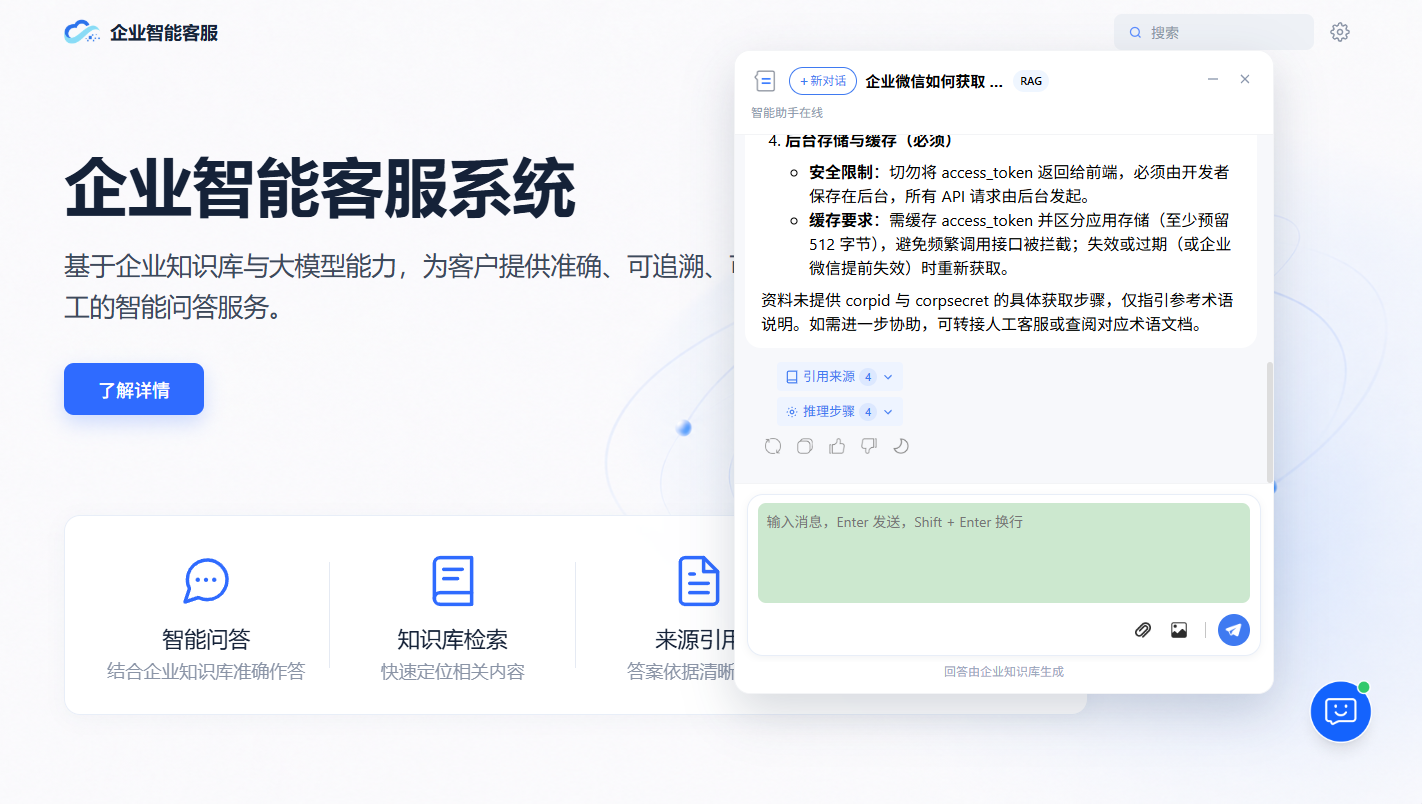
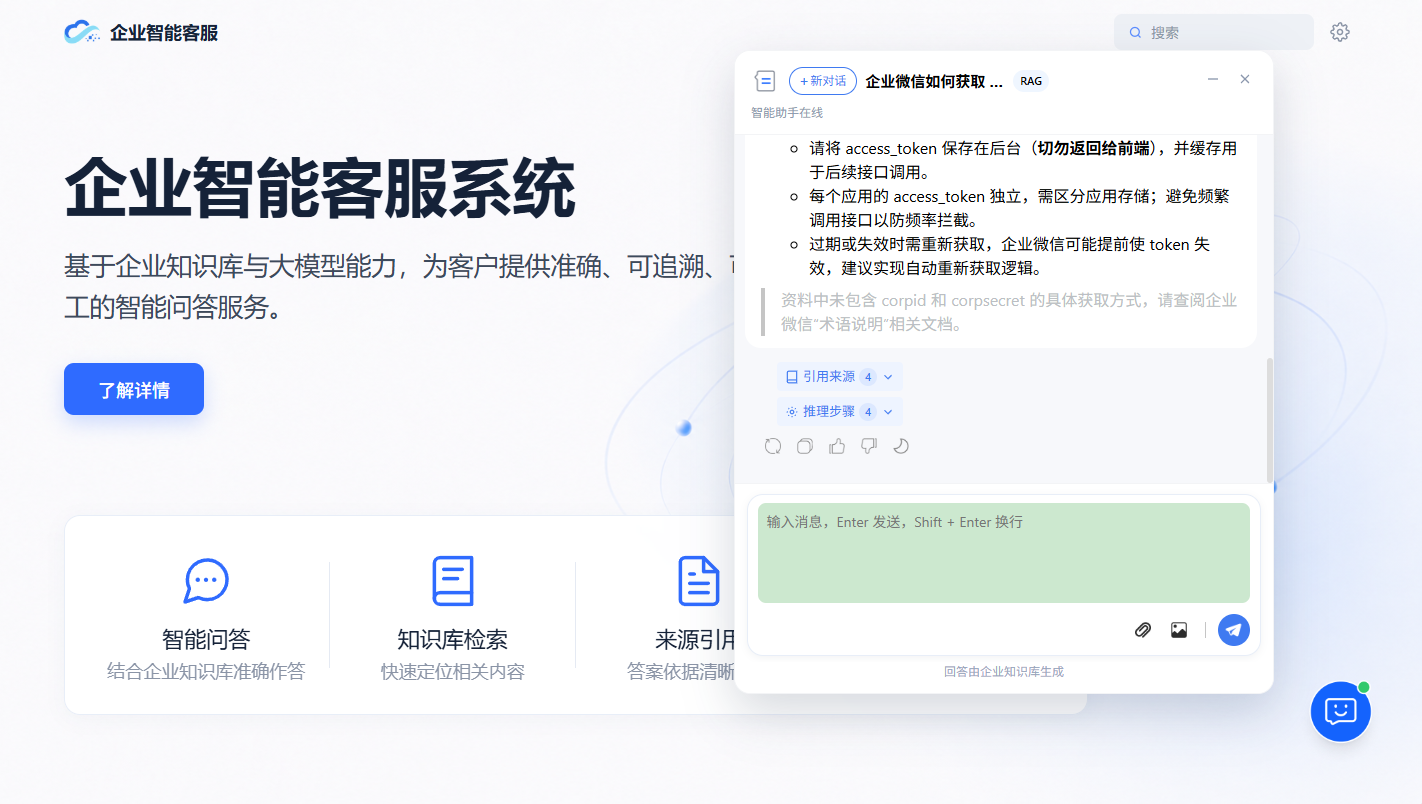
test: 阶段4全量回归全绿（t_class1 10/10、t_class3 9/9、UI 4/4、契约 OK、build ✓）
- 脚本扩用例：T9 response_format 透传 / T10 embeddings / T9 空白拦截
- 证据：test-evidence/deploy-2026-10-24/

Changed region(s): [[0.526, 0.1555, 0.8664, 0.4353]]

diff --git a/test-evidence/deploy-2026-10-24/t_class1.py b/test-evidence/deploy-2026-10-24/t_class1.py
@@ -105,5 +105,29 @@ record("T7 流式对话 SSE", done and len(stream_content) > 0,
 st, raw, dt, _ = req("POST", "/v1/chat/completions", {"model": "gpt-4o", "messages": [{"role": "user", "content": "hi"}]})
 record("T8 未支持模型", st == 404, f"HTTP {st} body={raw.decode('utf-8', 'ignore')[:100]}")
 
+# 9 F1：response_format 结构化输出透传（输出须符合 schema）
+st, raw, dt, _ = req("POST", "/v1/chat/completions", {
+    "model": "hy3",
+    "messages": [{"role": "user", "content": "返回一个对象，ok 为 true"}],
+    "max_tokens": 4096,
+    "response_format": {"type": "json_schema", "json_schema": {"name": "t", "strict": True,
+        "schema": {"type": "object", "properties": {"ok": {"type": "boolean"}},
+                   "required": ["ok"], "additionalProperties": False}}},
+})
+try:
+    c9 = json.loads(raw)["choices"][0]["message"]["content"]
+    ok9 = isinstance(json.loads(c9), dict) and "ok" in json.loads(c9)
+except Exception:
+    c9, ok9 = raw.decode("utf-8", "ignore")[:60], False
+record("T9 response_format 透传", st == 200 and ok9, f"HTTP {st} {dt:.1f}s content={c9!r} schema解析={ok9}")
+
+# 10 F2：/v1/embeddings 透传（1024 维）
+st, raw, dt, _ = req("POST", "/v1/embeddings", {"model": "kinfra-text-embedding-0.6b", "input": "你好"})
+try:
+    dims = len(json.loads(raw)["data"][0]["embedding"])
+except Exception:
+    dims = -1
+record("T10 embeddings 透传", st == 200 and dims == 1024, f"HTTP {st} {dt:.2f}s dims={dims}")
+
 print("\n==== 汇总 ====")
 print(f"通过 {sum(1 for _, ok, _ in RESULTS if ok)}/{len(RESULTS)}")

diff --git a/test-evidence/deploy-2026-10-24/t_class3.py b/test-evidence/deploy-2026-10-24/t_class3.py
@@ -70,5 +70,9 @@ record("T7 POST /chat/reset", st == 200 and j5.get("ok") is True, f"HTTP {st} {j
 st, j6, dt = req("POST", "/chat", {"question": ""})
 record("T8 空问题校验", st in (400, 422), f"HTTP {st} detail={str(j6)[:100]}")
 
+# T9 F6：纯空白问题应即时 400（不进检索环）
+st, j7, dt = req("POST", "/chat", {"question": "   "})
+record("T9 纯空白问题拦截", st == 400 and dt < 1.0, f"HTTP {st} {dt:.3f}s detail={str(j7)[:80]}")
+
 print("\n==== 汇总 ====")
 print(f"通过 {sum(1 for _, ok, _ in RESULTS if ok)}/{len(RESULTS)}")

diff --git a/整改进度与任务日志.md b/整改进度与任务日志.md
@@ -24,7 +24,7 @@
 | 3 class3 | F7 Key 校验时机修正 | ✅ | `f70d170` | 2026-10-24 | 坏 Key → 中文指引 + exit 1，无 traceback |
 | 3 class3 | F11 依赖版本锁定 | ✅ | `f70d170` | 2026-10-24 | requirements.lock.txt（124 包）+ requirements.txt 头注 |
 | 3 class3 | F12 节点名契约测试 | ✅ | `f70d170` | 2026-10-24 | CONTRACT-OK，5=5；脚本路径自适应 A6 前后布局 |
-| 4 回归 | 全量脚本复跑 + 提交 | ⬜ | | | t_class1/t_class3/UI/契约 |
+| 4 回归 | 全量脚本复跑 + 提交 | ✅ | 见 S4 提交 | 2026-10-24 | t_class1 10/10（新增 T9/T10）、t_class3 9/9（新增 T9 空白）、UI 4/4、契约 OK、build ✓ |
 | 5 文案层 | A1 知识库去课程化+重建向量库 | ⬜ | | | 重建前 db_md 已有备份 |
 | 5 文案层 | A2 UI 文案替换（9 处） | ⬜ | | | |
 | 5 文案层 | A3 TODO 注释重标注（93 处） | ⬜ | | | |
@@ -40,6 +40,14 @@
 ---
 
 ## 二、任务日志（新→旧）
+
+### S4 ｜ 阶段 4：全量回归
+
+- **任务时间**：2026-10-24 23:50 → 2026-10-25 00:05（GMT+8）
+- **任务输入**：手册阶段 4；F1-F12 全部修复完成后的统一回归
+- **执行过程**：`deploy-2026-10-24/t_class1.py` 追加 T9（response_format）/T10（embeddings）、`t_class3.py` 追加 T9（纯空白）；复跑五件套：t_class1 → 契约测试 → npm run build → UI E2E（Chrome CDP）→ t_class3（后台并行）
+- **任务产出**：**t_class1 10/10**（T9 schema `{"ok": true}`、T10 dims=1024）、**t_class3 9/9**（T9 空白 400/0.015s）、**UI 4/4**（代理 2.3s / RAG 78.4s 含引用来源）、CONTRACT-OK、build 2.26s 0 错误；证据 `test-evidence/deploy-2026-10-24/`
+- **环境终态**：三服务运行中，Chrome CDP 保持
 
 ### S3 ｜ 阶段 3：class3 修复（F4 / F5 / F6 / F7 + F11 / F12）
 
